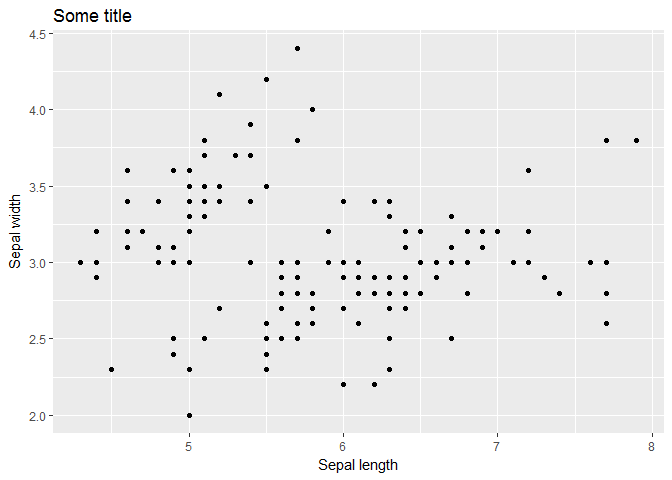
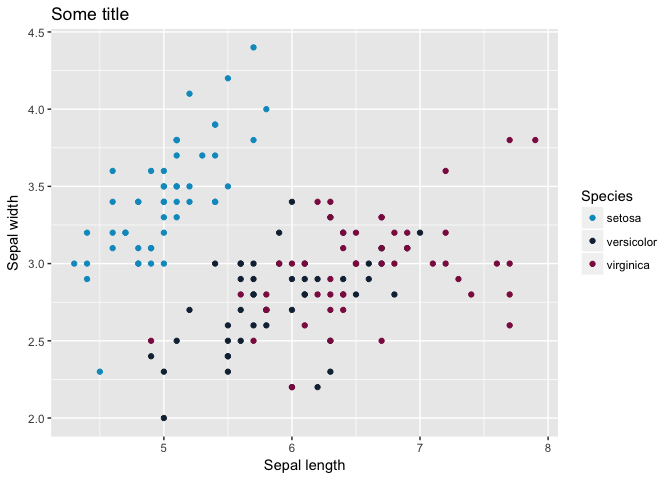
Updated readme, add summary statistics, add plots

diff --git a/README.md b/README.md
@@ -1,5 +1,6 @@
 Introduction to R
 ================
+R.Slieker
 
 Where to get this page from:
 ----------------------------
@@ -9,26 +10,37 @@ Where to get this page from:
 Introduction
 ------------
 
+The R interface
+---------------
+
 -   Originated from proprietary S programming language
 
 -   Comes in many flavours, like GUI (hardly a user interface), Rstudio, Eclipse
 
--   Rstudio is very useful: <https://www.rstudio.com/products/RStudio/>
+-   Save scripts as R files, can be opened with all kinds of software (R, Rstudio, sublime, Notepad etc. )
+
+-   Save objects to Rdata files, so you can continue with it next time without the need for rerunning the complete script
+
+Other software to be used with R
+--------------------------------
+
+-   Rstudio is very useful: <https://www.rstudio.com/products/RStudio/> It has many advantages: integrated help, use of tab,
 
 -   Sublime when only typing syntax (to link with servers): <https://www.sublimetext.com/>
 
--   Git to track your code: <https://git.lumc.nl>
-
 -   Packages: for an (almost infinity) number of applications people have developed packages, for example Bioconductor: <http://bioconductor.org/>
 
--   Suggested literature:
+-   Git to track your code: <https://git.lumc.nl>
 
-The art of R programming, Normal Matlof, Starch Press
+Suggested literature:
+---------------------
 
-Introductory Statistics with R, Peter Dalgaard, Springer
+*The art of R programming, Normal Matlof, Starch Press*
 
-Starting simple
----------------
+*Introductory Statistics with R, Peter Dalgaard, Springer*
+
+Starting simple with R
+----------------------
 
 ``` r
 1+1
@@ -45,6 +57,16 @@ a + a
     ## [1] 2
 
 ``` r
+#But the equal sign also works!
+aa = 1
+aa+aa
+```
+
+    ## [1] 2
+
+``` r
+#But professionals use the arrow and not the equal sign to distinguish from  == :)
+
 #Or multiple values ot variables
 b <- c(1,2,3) # c, concatenate
 b
@@ -52,10 +74,10 @@ b
 
     ## [1] 1 2 3
 
-String classes
---------------
+The main classes
+----------------
 
--   Numeric
+-   Numeric and integers
 -   Characters
 -   Factors
 
@@ -77,7 +99,7 @@ class(characters)
     ## [1] "character"
 
 ``` r
-#Factor
+#Factor, same as character but with the levels in the data
 factors <- factor(c("A","A","B","B","C"), levels=c("A","B","C"))
 class(factors)
 ```
@@ -93,7 +115,7 @@ Advantages: can hold multiple classes, columns can be viewed easily Disadvantage
 
 -   Matrices
 
-Advantage: very quick and useful for matrix calculations. Disadvantage: less easy to modify (add columns)
+Advantage: very quick and useful for matrix calculations. Disadvantage: less easy to modify (add columns, change class of data)
 
 ``` r
 #Data.frame: can hold multiple classes
@@ -155,17 +177,56 @@ class(mtrx)
 
     ## [1] "matrix"
 
+``` r
+#Calculate something at once
+mtrx*mtrx
+```
+
+    ##      [,1] [,2] [,3] [,4] [,5]
+    ## [1,]    1   36  121  256  441
+    ## [2,]    4   49  144  289  484
+    ## [3,]    9   64  169  324  529
+    ## [4,]   16   81  196  361  576
+    ## [5,]   25  100  225  400  625
+
 Modifying objects
 -----------------
 
 ``` r
+#Adding rownames to files 
+rownames(df) <- c("A","B","C")
+#The file has already colnames
+colnames(df)
+```
+
+    ## [1] "Group"   "Outcome"
+
+``` r
+#What doesn't work:
+dim(mtrx)
+```
+
+    ## [1] 5 5
+
+``` r
+#rownames(mtrx) <- c("A","B","C")
+#Why not?
+
+## Learn to understand error codes (read them carefully)
+
+## If you don't get the error, google it. There is ALWAYS someone before you who had the same question.
+
+
+## This does work. Why?
+rownames(mtrx) <- c("A","B","C","D","E")
+
 #Data.frame
 df[1:2, ] #First two lines
 ```
 
     ##   Group Outcome
-    ## 1     1       2
-    ## 2     2       3
+    ## A     1       2
+    ## B     2       3
 
 ``` r
 #Add column
@@ -174,18 +235,18 @@ head(df)
 ```
 
     ##   Group Outcome NewCol
-    ## 1     1       2      1
-    ## 2     2       3      2
-    ## 3     3       6      5
+    ## A     1       2      1
+    ## B     2       3      2
+    ## C     3       6      5
 
 ``` r
 #Matrix:
 mtrx[1:2,]
 ```
 
-    ##      [,1] [,2] [,3] [,4] [,5]
-    ## [1,]    1    6   11   16   21
-    ## [2,]    2    7   12   17   22
+    ##   [,1] [,2] [,3] [,4] [,5]
+    ## A    1    6   11   16   21
+    ## B    2    7   12   17   22
 
 ``` r
 mtrx[1:2] #Different!
@@ -193,14 +254,35 @@ mtrx[1:2] #Different!
 
     ## [1] 1 2
 
+``` r
+# List 
+list(GroupA = 1:3, GroupB = 2:5 , GroupC = 3:5)
+```
+
+    ## $GroupA
+    ## [1] 1 2 3
+    ## 
+    ## $GroupB
+    ## [1] 2 3 4 5
+    ## 
+    ## $GroupC
+    ## [1] 3 4 5
+
 Reading from files
 ------------------
 
 R can read all types of files (with or without required packages), such as txt, csv, xlsx (package: xlsx), sav spss file (package: Hmisc)
 
 ``` r
+# Setting a working directory (= tell R where to find files and where to save files.)
+setwd("/Users/roderick/Documents/Onderwijs/IntroR/")
+
 #Reading csv files (comma delimited)
-IrisCSV <- read.table("https://raw.githubusercontent.com/roderickslieker/Rintro/master/Iris.csv", sep=",", header=T)
+IrisCSV <- read.table("Iris.csv", sep=",", header=T)
+
+#Or we give the full path
+IrisCSV <- read.table("/Users/roderick/Documents/Onderwijs/IntroR/Iris.csv", sep=",", header=T)
+
 head(IrisCSV)
 ```
 
@@ -225,7 +307,7 @@ str(IrisCSV)
 
 ``` r
 #Reading tab delimited 
-IrisTXT <- read.table("https://raw.githubusercontent.com/roderickslieker/Rintro/master/Iris.txt", sep="\t", header=T)
+IrisTXT <- read.table("Iris.txt", sep="\t", header=T)
 head(IrisTXT)
 ```
 
@@ -248,14 +330,77 @@ str(IrisTXT)
     ##  $ Petal.Width : num  0.2 0.2 0.2 0.2 0.2 0.4 0.3 0.2 0.2 0.1 ...
     ##  $ Species     : Factor w/ 3 levels "setosa","versicolor",..: 1 1 1 1 1 1 1 1 1 1 ...
 
+Summary statistics
+------------------
+
+There are various ways of calcalating summary statistics. A useful function is **by**.
+
+``` r
+# Means
+# by(data = someVariable, INDICES = someGrouping, FUN = aGroupingFunction)
+
+by(data = IrisCSV$Sepal.Length, INDICES = IrisCSV$Species, mean)
+```
+
+    ## IrisCSV$Species: setosa
+    ## [1] 5.006
+    ## -------------------------------------------------------- 
+    ## IrisCSV$Species: versicolor
+    ## [1] 5.936
+    ## -------------------------------------------------------- 
+    ## IrisCSV$Species: virginica
+    ## [1] 6.588
+
+``` r
+# Same as:
+by(IrisCSV$Sepal.Length, IrisCSV$Species, mean)
+```
+
+    ## IrisCSV$Species: setosa
+    ## [1] 5.006
+    ## -------------------------------------------------------- 
+    ## IrisCSV$Species: versicolor
+    ## [1] 5.936
+    ## -------------------------------------------------------- 
+    ## IrisCSV$Species: virginica
+    ## [1] 6.588
+
+``` r
+#Store in variable
+meanGroup <- by(data = IrisCSV$Sepal.Length, INDICES = IrisCSV$Species, mean)
+class(meanGroup)
+```
+
+    ## [1] "by"
+
+``` r
+#Small trick:
+as.list(meanGroup)
+```
+
+    ## $setosa
+    ## [1] 5.006
+    ## 
+    ## $versicolor
+    ## [1] 5.936
+    ## 
+    ## $virginica
+    ## [1] 6.588
+
 Packages
 --------
 
 Packages are an infinite rich source to facilitate your analysis
 
-*To install packages from CRAN* install.packages("ggplot2")
+*To install packages from CRAN*
 
-*Or when from Bioconductor:* source("<https://bioconductor.org/biocLite.R>") biocLite("IRanges")
+install.packages("ggplot2")
+
+*Or when from Bioconductor:*
+
+source("<https://bioconductor.org/biocLite.R>")
+
+biocLite("IRanges")
 
 Plotting
 --------
@@ -272,11 +417,12 @@ plot(IrisCSV$Sepal.Length, IrisCSV$Sepal.Width, xlab="Sepal length", ylab="Sepal
 ![](README_files/figure-markdown_github-ascii_identifiers/plotting-1.png)
 
 ``` r
-ggplot(IrisCSV, aes(x=Sepal.Length, y=Sepal.Width))+
+ggplot(IrisCSV, aes(x=Sepal.Length, y=Sepal.Width, col=Species))+
   geom_point()+
   ggtitle("Some title")+
   xlab("Sepal length")+
-  ylab("Sepal width")
+  ylab("Sepal width")+
+  scale_color_manual(values = c("#009AC7","#132B41","#8B1A4F"))
 ```
 
 ![](README_files/figure-markdown_github-ascii_identifiers/plotting-2.png)
@@ -289,12 +435,37 @@ boxplot(IrisCSV$Sepal.Length~IrisCSV$Species, xlab="Sepal length", ylab="Sepal w
 ![](README_files/figure-markdown_github-ascii_identifiers/plotting-3.png)
 
 ``` r
-ggplot(IrisCSV, aes(x=Species, y=Sepal.Length, fill=Species))+
-  geom_boxplot()+
-  ggtitle("Some title")+
-  xlab("Sepal length")+
-  ylab("Sepal width")+
-  scale_fill_manual(values = c("#009AC7","#132B41","#8B1A4F"))
+ggplot(IrisCSV, aes(x=Species, y=Sepal.Length, fill=Species))+ #Define variables
+  geom_boxplot()+ #What kind of graph?
+  ggtitle("Some title")+ #Add title to graph
+  xlab("Sepal length")+ #Add x-axis labels
+  ylab("Sepal width")+ #Add y-axis labels
+  scale_fill_manual(values = c("#009AC7","#132B41","#8B1A4F")) # Change colors using HEX colors
 ```
 
 ![](README_files/figure-markdown_github-ascii_identifiers/plotting-4.png)
+
+``` r
+# Smoothed line graph
+ggplot(IrisCSV, aes(x=Sepal.Width, y=Sepal.Length, col=Species))+
+  geom_point()+
+  geom_smooth(method=lm)+
+  ggtitle("Some title")+
+  xlab("Sepal length")+
+  ylab("Sepal width")+
+  scale_color_manual(values = c("#009AC7","#132B41","#8B1A4F"))
+```
+
+![](README_files/figure-markdown_github-ascii_identifiers/plotting-5.png)
+
+``` r
+ggplot(IrisCSV, aes(x=Sepal.Width, y=Sepal.Length, col=Species))+
+  geom_point()+
+  geom_smooth(method=loess)+
+  ggtitle("Some title")+
+  xlab("Sepal length")+
+  ylab("Sepal width")+
+  scale_color_manual(values = c("#009AC7","#132B41","#8B1A4F"))
+```
+
+![](README_files/figure-markdown_github-ascii_identifiers/plotting-6.png)
